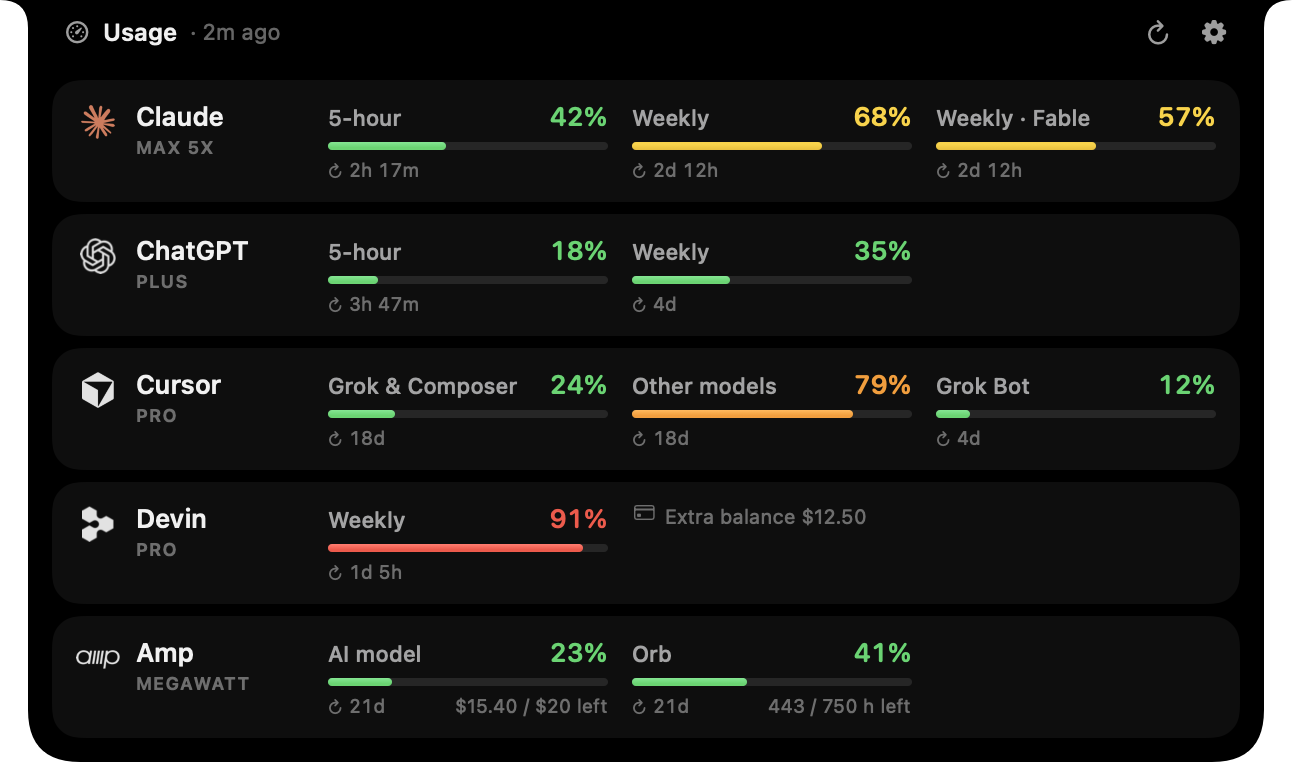
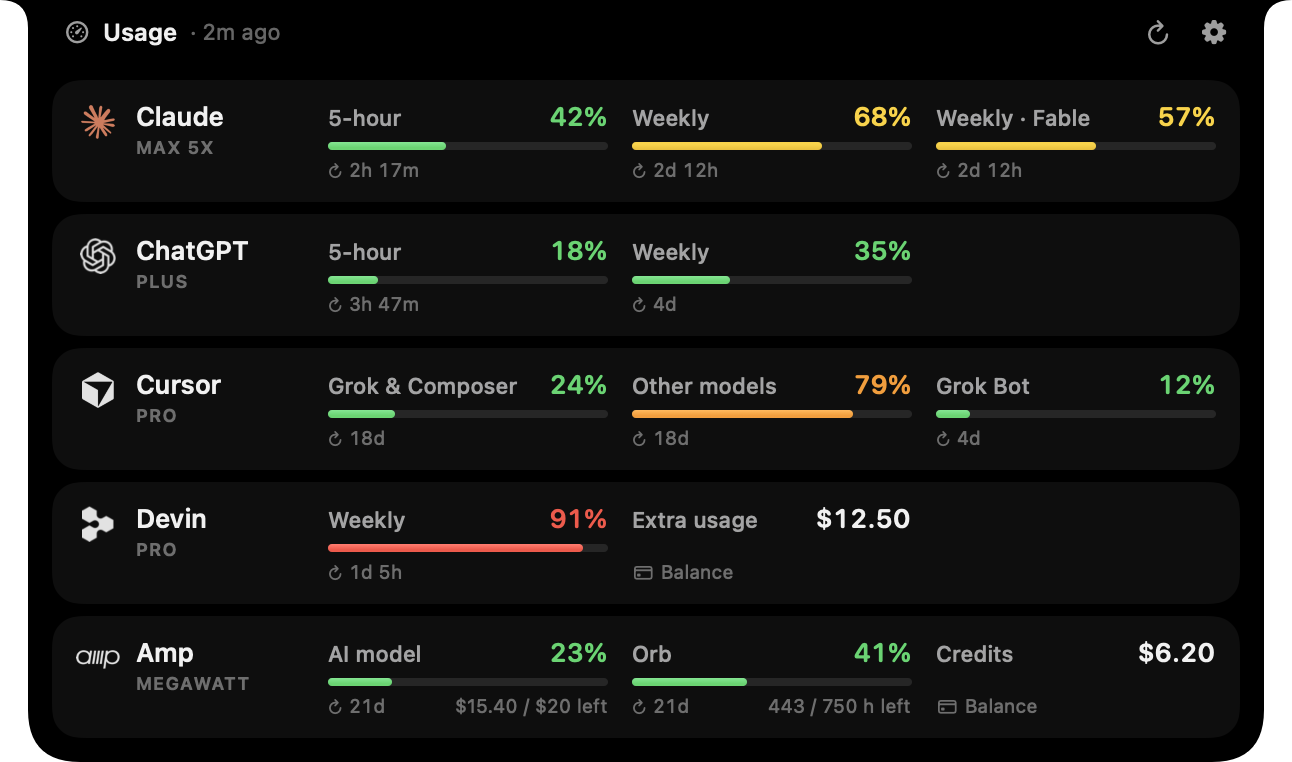
🐛 fix(ui): line up balances with the usage grid
Devin's extra usage and Amp's credits were drawn as a one-line note
at the top of their slot, so they never matched the three-row limit
cells next to them.

- Replace the free-text snapshot note with UsageBalance (title and
  dollar amount)
- Draw it as BalanceCell with the same header, bar slot and caption
  rows as MetricCell, sharing CellHeader and the caption style
- Give the balance its own grid slot and count it for the columns
- Rename Devin's "Extra balance" to "Extra usage"
- Update the probe output, demo data, README table and screenshot

diff --git a/Sources/OpenNotch/Views/ProviderRow.swift b/Sources/OpenNotch/Views/ProviderRow.swift
@@ -106,25 +106,35 @@ struct ProviderRow: View {
     }
 
     private func metricGrid(_ snapshot: ProviderSnapshot) -> some View {
-        let metrics = snapshot.metrics
-        let rows = stride(from: 0, to: metrics.count, by: columns).map { Array(metrics[$0..<min($0 + columns, metrics.count)]) }
-        // A short note (credit balance…) takes a free column instead of adding height.
-        let noteFitsInline = snapshot.note != nil && (rows.last?.count ?? 0) < columns
+        // A balance (extra usage, credits…) takes the slot after the limits, like one more column.
+        let cells = snapshot.metrics.map(GridCell.metric) + (snapshot.balance.map { [GridCell.balance($0)] } ?? [])
+        let rows = stride(from: 0, to: cells.count, by: columns).map { Array(cells[$0..<min($0 + columns, cells.count)]) }
 
         return VStack(alignment: .leading, spacing: 10) {
             ForEach(rows.indices, id: \.self) { index in
                 HStack(alignment: .top, spacing: Layout.metricGap) {
-                    ForEach(rows[index]) { metric in
-                        MetricCell(provider: provider, metric: metric, now: now)
-                    }
-                    if index == rows.count - 1, noteFitsInline, let note = snapshot.note {
-                        NoteCell(text: note)
+                    ForEach(rows[index]) { cell in
+                        switch cell {
+                        case .metric(let metric):
+                            MetricCell(provider: provider, metric: metric, now: now)
+                        case .balance(let balance):
+                            BalanceCell(provider: provider, balance: balance)
+                        }
                     }
                 }
             }
-            if !noteFitsInline, let note = snapshot.note {
-                NoteCell(text: note)
-            }
+        }
+    }
+}
+
+private enum GridCell: Identifiable {
+    case metric(UsageMetric)
+    case balance(UsageBalance)
+
+    var id: String {
+        switch self {
+        case .metric(let metric): metric.id
+        case .balance: "balance"
         }
     }
 }
@@ -139,19 +149,7 @@ struct MetricCell: View {
         let color = Palette.forPercent(percent)
 
         VStack(alignment: .leading, spacing: 5) {
-            HStack(alignment: .firstTextBaseline, spacing: 4) {
-                Text(metric.title)
-                    .font(.system(size: 11, weight: .medium))
-                    .foregroundStyle(Palette.secondary)
-                    .lineLimit(1)
-                    .truncationMode(.tail)
-                Spacer(minLength: 2)
-                Text(UsageFormat.percent(percent))
-                    .font(.system(size: 13, weight: .semibold, design: .rounded))
-                    .monospacedDigit()
-                    .foregroundStyle(color)
-                    .contentTransition(.numericText(value: percent))
-            }
+            CellHeader(title: metric.title, value: UsageFormat.percent(percent), color: color, numericValue: percent)
             UsageBar(fraction: percent / 100, color: color)
             HStack(spacing: 3) {
                 if let reset = metric.resetsAt {
@@ -167,9 +165,7 @@ struct MetricCell: View {
                         .truncationMode(.head)
                 }
             }
-            .font(.system(size: 9.5))
-            .foregroundStyle(Palette.tertiary)
-            .frame(height: 11)
+            .cellCaption()
         }
         .frame(width: Layout.metricWidth)
         .help(tooltip(percent: percent))
@@ -194,7 +190,71 @@ struct MetricCell: View {
     }
 }
 
+/// Money left beyond the plan, drawn in the same frame and rows as `MetricCell` so it lines up with the
+/// limits beside it. A balance has no ceiling to measure against, so the bar's slot stays empty.
+struct BalanceCell: View {
+    let provider: ProviderID
+    let balance: UsageBalance
+
+    var body: some View {
+        let amount = UsageFormat.dollars(balance.amount)
+
+        VStack(alignment: .leading, spacing: 5) {
+            CellHeader(title: balance.title, value: amount, color: Palette.primary, numericValue: balance.amount)
+            Color.clear
+                .frame(height: UsageBar.height)
+            HStack(spacing: 3) {
+                Image(systemName: "creditcard")
+                    .font(.system(size: 8, weight: .semibold))
+                Text("Balance")
+            }
+            .cellCaption()
+        }
+        .frame(width: Layout.metricWidth)
+        .help("\(balance.title): \(amount) left")
+        .accessibilityElement(children: .ignore)
+        .accessibilityLabel("\(provider.displayName), \(balance.title)")
+        .accessibilityValue("\(amount) left")
+    }
+}
+
+/// First line of every grid cell: what it is on the left, the headline figure on the right.
+private struct CellHeader: View {
+    let title: String
+    let value: String
+    let color: Color
+    /// Drives the rolling-digits transition when the figure changes.
+    let numericValue: Double
+
+    var body: some View {
+        HStack(alignment: .firstTextBaseline, spacing: 4) {
+            Text(title)
+                .font(.system(size: 11, weight: .medium))
+                .foregroundStyle(Palette.secondary)
+                .lineLimit(1)
+                .truncationMode(.tail)
+            Spacer(minLength: 2)
+            Text(value)
+                .font(.system(size: 13, weight: .semibold, design: .rounded))
+                .monospacedDigit()
+                .foregroundStyle(color)
+                .contentTransition(.numericText(value: numericValue))
+        }
+    }
+}
+
+private extension View {
+    /// Last line of every grid cell (reset countdown, detail, balance label).
+    func cellCaption() -> some View {
+        font(.system(size: 9.5))
+            .foregroundStyle(Palette.tertiary)
+            .frame(height: 11)
+    }
+}
+
 struct UsageBar: View {
+    static let height: CGFloat = 4
+
     let fraction: Double
     let color: Color
 
@@ -208,25 +268,8 @@ struct UsageBar: View {
                     .frame(width: clamped > 0 ? max(4, proxy.size.width * clamped) : 0)
             }
         }
-        .frame(height: 4)
+        .frame(height: Self.height)
         .animation(.spring(response: 0.5, dampingFraction: 0.85), value: fraction)
-    }
-}
-
-private struct NoteCell: View {
-    let text: String
-
-    var body: some View {
-        HStack(alignment: .top, spacing: 4) {
-            Image(systemName: "creditcard")
-                .font(.system(size: 9))
-            Text(text)
-                .fixedSize(horizontal: false, vertical: true)
-        }
-        .font(.system(size: 10))
-        .foregroundStyle(Palette.tertiary)
-        .frame(width: Layout.metricWidth, alignment: .leading)
-        .padding(.top, 1)
     }
 }
 

diff --git a/Sources/OpenNotchCore/Providers/DevinProvider.swift b/Sources/OpenNotchCore/Providers/DevinProvider.swift
@@ -50,7 +50,7 @@ public struct DevinProvider: UsageProvider {
         )
         let parsed = Self.parse(json)
         guard !parsed.metrics.isEmpty else { throw ProviderIssue.unexpected("No quota data found") }
-        return ProviderSnapshot(provider: id, plan: parsed.plan, metrics: parsed.metrics, note: parsed.note)
+        return ProviderSnapshot(provider: id, plan: parsed.plan, metrics: parsed.metrics, balance: parsed.balance)
     }
 
     static func loadCredentials() -> Credentials? {
@@ -70,7 +70,7 @@ public struct DevinProvider: UsageProvider {
         return nil
     }
 
-    public static func parse(_ json: JSON) -> (plan: String?, metrics: [UsageMetric], note: String?) {
+    public static func parse(_ json: JSON) -> (plan: String?, metrics: [UsageMetric], balance: UsageBalance?) {
         let status = json["userStatus"]["planStatus"]
         let info = status["planInfo"].isNull ? json["planInfo"] : status["planInfo"]
         var metrics: [UsageMetric] = []
@@ -109,10 +109,10 @@ public struct DevinProvider: UsageProvider {
             metrics.append(UsageMetric(id: "devin.credits", title: "Credits", usedPercent: used / available * 100, resetsAt: planEnd, window: .monthly))
         }
 
-        var note: String?
+        var balance: UsageBalance?
         if let micros = status["overageBalanceMicros"].double, micros > 0 {
-            note = "Extra balance \(UsageFormat.dollars(micros / 1_000_000))"
+            balance = UsageBalance(title: "Extra usage", amount: micros / 1_000_000)
         }
-        return (info["planName"].string, metrics, note)
+        return (info["planName"].string, metrics, balance)
     }
 }

diff --git a/Sources/OpenNotchCore/Providers/AmpProvider.swift b/Sources/OpenNotchCore/Providers/AmpProvider.swift
@@ -39,7 +39,7 @@ public struct AmpProvider: UsageProvider {
         }
         let parsed = Self.parse(displayText: text)
         guard !parsed.metrics.isEmpty else { throw ProviderIssue.unexpected("Unrecognized Amp usage format") }
-        return ProviderSnapshot(provider: id, plan: parsed.plan, metrics: parsed.metrics, note: parsed.note)
+        return ProviderSnapshot(provider: id, plan: parsed.plan, metrics: parsed.metrics, balance: parsed.balance)
     }
 
     static func loadCredentials() -> (String, URL)? {
@@ -56,7 +56,7 @@ public struct AmpProvider: UsageProvider {
         return nil
     }
 
-    public static func parse(displayText: String, now: Date = Date()) -> (plan: String?, metrics: [UsageMetric], note: String?) {
+    public static func parse(displayText: String, now: Date = Date()) -> (plan: String?, metrics: [UsageMetric], balance: UsageBalance?) {
         let text = displayText.replacingOccurrences(of: "**", with: "")
         var metrics: [UsageMetric] = []
         var plan: String?
@@ -111,11 +111,11 @@ public struct AmpProvider: UsageProvider {
             ))
         }
 
-        var note: String?
+        var balance: UsageBalance?
         if let credits = firstMatch(#"Individual credits:?\s*\$([\d,]+(?:\.\d+)?) remaining"#, in: text), let value = number(credits[0]) {
-            note = "Credits \(UsageFormat.dollars(value))"
+            balance = UsageBalance(title: "Credits", amount: value)
         }
-        return (plan, metrics, note)
+        return (plan, metrics, balance)
     }
 
     private static func firstMatch(_ pattern: String, in text: String) -> [String]? {

diff --git a/Tests/OpenNotchCoreTests/ProviderParsingTests.swift b/Tests/OpenNotchCoreTests/ProviderParsingTests.swift
@@ -124,7 +124,13 @@ struct DevinParsingTests {
         #expect(parsed.metrics.map(\.title) == ["Weekly"])
         #expect(parsed.metrics[0].usedPercent == 87)
         #expect(parsed.metrics[0].resetsAt == Date(timeIntervalSince1970: 1_790_496_000))
-        #expect(parsed.note == "Extra balance $4.79")
+        #expect(parsed.balance?.title == "Extra usage")
+        #expect(parsed.balance.map { UsageFormat.dollars($0.amount) } == "$4.79")
+    }
+
+    @Test func noBalanceWithoutOverage() throws {
+        let response = #"{"userStatus": {"planStatus": {"weeklyQuotaRemainingPercent": 50, "weeklyQuotaResetAtUnix": "1790496000"}}}"#
+        #expect(DevinProvider.parse(try JSON(string: response)).balance == nil)
     }
 
     @Test func omittedPercentWithResetMeansExhausted() throws {
@@ -154,7 +160,7 @@ struct AmpParsingTests {
         #expect(parsed.metrics[0].detail == "$19.27 / $20 left")
         #expect(parsed.metrics[1].detail == "475 / 750 h left")
         #expect(parsed.metrics[0].resetsAt == ISODate.parse("2026-10-18T00:00:00Z"))
-        #expect(parsed.note == "Credits $8.94")
+        #expect(parsed.balance == UsageBalance(title: "Credits", amount: 8.94))
     }
 
     @Test func markdownVariantParsesTheSame() {

diff --git a/Sources/OpenNotchCore/Support/Models.swift b/Sources/OpenNotchCore/Support/Models.swift
@@ -140,18 +140,29 @@ public struct UsageMetric: Codable, Sendable, Hashable, Identifiable {
     }
 }
 
+/// Money on the account beyond the plan's limits (Devin extra usage, Amp credits), in US dollars.
+public struct UsageBalance: Codable, Sendable, Hashable {
+    public var title: String
+    public var amount: Double
+
+    public init(title: String, amount: Double) {
+        self.title = title
+        self.amount = amount
+    }
+}
+
 public struct ProviderSnapshot: Codable, Sendable, Equatable {
     public var provider: ProviderID
     public var plan: String?
     public var metrics: [UsageMetric]
-    public var note: String?
+    public var balance: UsageBalance?
     public var fetchedAt: Date
 
-    public init(provider: ProviderID, plan: String?, metrics: [UsageMetric], note: String? = nil, fetchedAt: Date = Date()) {
+    public init(provider: ProviderID, plan: String?, metrics: [UsageMetric], balance: UsageBalance? = nil, fetchedAt: Date = Date()) {
         self.provider = provider
         self.plan = plan
         self.metrics = metrics
-        self.note = note
+        self.balance = balance
         self.fetchedAt = fetchedAt
     }
 

diff --git a/Sources/OpenNotch/App/DocsRenderer.swift b/Sources/OpenNotch/App/DocsRenderer.swift
@@ -90,11 +90,11 @@ enum DemoData {
             ], fetchedAt: now),
             ProviderSnapshot(provider: .devin, plan: "Pro", metrics: [
                 UsageMetric(id: "devin.weekly", title: "Weekly", usedPercent: 91, resetsAt: later(30), window: .weekly),
-            ], note: "Extra balance $12.50", fetchedAt: now),
+            ], balance: UsageBalance(title: "Extra usage", amount: 12.5), fetchedAt: now),
             ProviderSnapshot(provider: .amp, plan: "Megawatt", metrics: [
                 UsageMetric(id: "amp.agent", title: "AI model", usedPercent: 23, resetsAt: later(22 * 24), detail: "$15.40 / $20 left", window: .monthly),
                 UsageMetric(id: "amp.orb", title: "Orb", usedPercent: 41, resetsAt: later(22 * 24), detail: "443 / 750 h left", window: .monthly),
-            ], fetchedAt: now),
+            ], balance: UsageBalance(title: "Credits", amount: 6.2), fetchedAt: now),
         ]
         return Dictionary(uniqueKeysWithValues: snapshots.map { ($0.provider, ProviderState(snapshot: $0, lastAttempt: now)) })
     }

diff --git a/Sources/OpenNotch/App/Probe.swift b/Sources/OpenNotch/App/Probe.swift
@@ -24,7 +24,9 @@ enum Probe {
                         let percent = UsageFormat.percent(metric.usedPercent).padding(toLength: 6, withPad: " ", startingAt: 0)
                         print("  \(title)\(percent)\(reset)\(detail)")
                     }
-                    if let note = snapshot.note { print("  \(note)") }
+                    if let balance = snapshot.balance {
+                        print("  \(balance.title.padding(toLength: 22, withPad: " ", startingAt: 0))\(UsageFormat.dollars(balance.amount)) left")
+                    }
                 } catch let issue as ProviderIssue {
                     print("\(id.displayName): \(issue.title) — \(issue.hint(for: id))")
                 } catch {

diff --git a/Sources/OpenNotch/Notch/NotchViewModel.swift b/Sources/OpenNotch/Notch/NotchViewModel.swift
@@ -74,7 +74,11 @@ final class NotchViewModel {
     // MARK: Expanded
 
     var metricColumns: Int {
-        let counts = store.visibleProviders.map { store.states[$0]?.snapshot?.metrics.count ?? 1 }
+        // A balance takes a grid slot of its own, next to the limits.
+        let counts = store.visibleProviders.map { provider -> Int in
+            guard let snapshot = store.states[provider]?.snapshot else { return 1 }
+            return snapshot.metrics.count + (snapshot.balance == nil ? 0 : 1)
+        }
         return min(Layout.maxMetricColumns, max(1, counts.max() ?? 1))
     }
 

diff --git a/README.md b/README.md
@@ -39,8 +39,8 @@ If you use several AI coding tools, their limits live in five different places: 
 | **Claude** | 5-hour, Weekly, Weekly per model (e.g. Fable) | Claude Code — macOS Keychain item `Claude Code-credentials` (or `~/.claude/.credentials.json`) |
 | **ChatGPT** | Codex limits of your plan (5-hour and/or Weekly) | Codex CLI — `~/.codex/auth.json` |
 | **Cursor** | Grok & Composer pool, Other models pool, Grok Bot | Cursor app (`state.vscdb`) or the Grok Bot app |
-| **Devin** | Weekly quota (plus Daily when your plan shows it) | Devin CLI — `~/.local/share/devin/credentials.toml`, or Devin Desktop |
-| **Amp** | AI model (agent) usage, Orb hours | Amp CLI — `~/.local/share/amp/secrets.json` |
+| **Devin** | Weekly quota (plus Daily when your plan shows it), extra usage balance | Devin CLI — `~/.local/share/devin/credentials.toml`, or Devin Desktop |
+| **Amp** | AI model (agent) usage, Orb hours, credits balance | Amp CLI — `~/.local/share/amp/secrets.json` |
 
 Tools you aren't signed in to are simply hidden. Each one can also be turned off in Settings.
 
